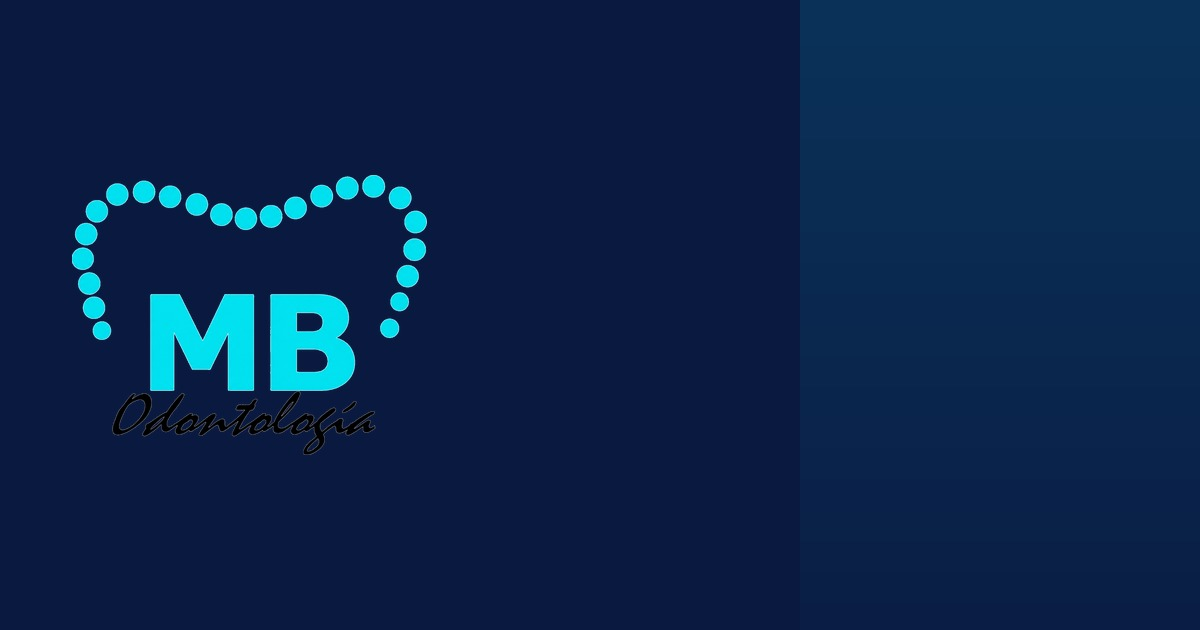
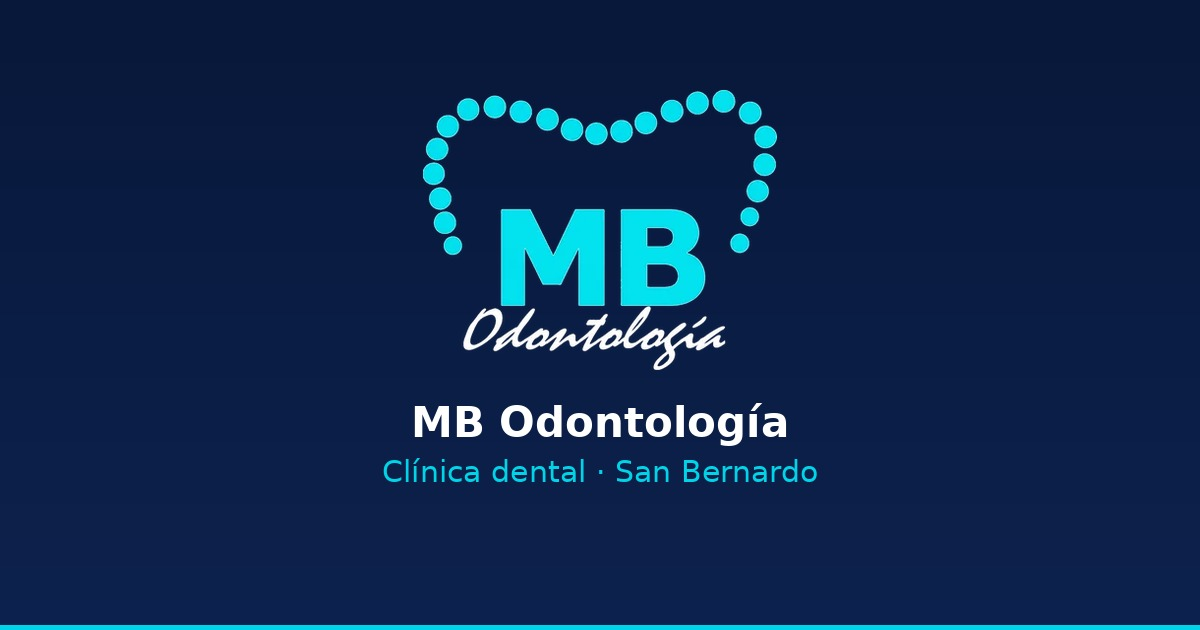
ajustes finales

Changed region(s): [[0.0617, 0.0, 1.0, 0.7238], [0.0, 0.9651, 1.0, 1.0], [0.3083, 0.6333, 0.6783, 0.7841]]

diff --git a/index.html b/index.html
@@ -28,10 +28,10 @@
 <header class="site-header">
   <div class="container nav">
     <a class="brand" href="index.html"><img src="assets/img/mb-logo.webp" alt="MB Odontología — Clínica dental"><span>Odontología</span></a>
-    <nav class="menu" aria-label="Menú principal"><a class="active" href="index.html">Inicio</a><a href="equipo.html">Nosotros</a><a href="servicios.html">Servicios</a><a href="agendar.html#contacto">Contacto</a><a class="nav-agendar" href="agendar.html">Agendar</a></nav>
+    <nav class="menu" aria-label="Menú principal"><a class="active" href="index.html">Inicio</a><a href="equipo.html">Nosotros</a><a href="servicios.html">Servicios</a><a href="agendar.html#contacto">Contacto</a><a class="nav-agendar" href="agendar.html#dentalsoft">Agendar</a></nav>
     <button class="mobile-toggle" aria-label="Abrir menú" aria-expanded="false"><span></span><span></span><span></span></button>
   </div>
-  <div class="container mobile-menu"><a href="index.html">Inicio</a><a href="equipo.html">Nosotros</a><a href="servicios.html">Servicios</a><a href="agendar.html#contacto">Contacto</a><a class="nav-agendar" href="agendar.html">Agendar</a></div>
+  <div class="container mobile-menu"><a href="index.html">Inicio</a><a href="equipo.html">Nosotros</a><a href="servicios.html">Servicios</a><a href="agendar.html#contacto">Contacto</a><a class="nav-agendar" href="agendar.html#dentalsoft">Agendar</a></div>
 </header>
 
 <main>
@@ -59,7 +59,7 @@
         <p class="lead hero-lead-constrained">Atención odontológica completa: implantes, ortodoncia, odontopediatría y más. Reserva tu hora hoy.</p>
         <div class="hero-actions">
           <a class="btn lg whatsapp" href="https://wa.me/[phone redacted]?text=Hola%2C%20quiero%20agendar%20una%20evaluaci%C3%B3n%20en%20MB%20Odontolog%C3%ADa." target="_blank" rel="noopener">Escríbenos por WhatsApp</a>
-          <a class="btn secondary lg" href="agendar.html">Agendar hora</a>
+          <a class="btn secondary lg" href="agendar.html#dentalsoft">Agendar hora</a>
         </div>
       </div>
     </div>
@@ -143,7 +143,7 @@
           </span>
           <strong>Conocer al equipo clínico →</strong>
         </a>
-        <a class="home-quick-card" href="agendar.html">
+        <a class="home-quick-card" href="agendar.html#dentalsoft">
           <span class="home-quick-title">
             <span class="home-quick-icon" aria-hidden="true">
               <svg viewBox="0 0 24 24" fill="none" stroke="currentColor" stroke-width="2.2" stroke-linecap="round" stroke-linejoin="round"><rect x="3" y="4" width="18" height="17" rx="3"></rect><line x1="16" y1="2" x2="16" y2="6"></line><line x1="8" y1="2" x2="8" y2="6"></line><line x1="3" y1="10" x2="21" y2="10"></line><path d="M8 14h.01M12 14h.01M16 14h.01M8 18h.01M12 18h.01"></path></svg>
@@ -200,7 +200,7 @@
           </dl>
 
           <div class="home-location-actions">
-            <a class="btn header-cta" href="agendar.html">Agendar hora</a>
+            <a class="btn header-cta" href="agendar.html#dentalsoft">Agendar hora</a>
             <a class="btn secondary" href="https://maps.app.goo.gl/84jRuTuHgjY4yyRq6" target="_blank" rel="noopener">Abrir en Google Maps</a>
           </div>
         </article>
@@ -229,7 +229,7 @@
       <p>Agenda tu evaluación hoy. Te atendemos en San Bernardo, con hora rápida.</p>
       <div class="final-cta-actions">
         <a class="btn lg whatsapp" href="https://wa.me/[phone redacted]?text=Hola%2C%20quiero%20agendar%20una%20evaluaci%C3%B3n%20en%20MB%20Odontolog%C3%ADa." target="_blank" rel="noopener">Escribir por WhatsApp</a>
-        <a class="btn secondary lg" href="agendar.html">Ir a agendamiento</a>
+        <a class="btn secondary lg" href="agendar.html#dentalsoft">Ir a agendamiento</a>
       </div>
     </div>
   </section>
@@ -253,7 +253,7 @@
           <a href="servicios.html">Servicios</a>
           <a href="campanas.html">Promociones</a>
           <a href="agendar.html#contacto">Contacto</a>
-          <a class="nav-agendar" href="agendar.html">Agendar hora</a>
+          <a class="nav-agendar" href="agendar.html#dentalsoft">Agendar hora</a>
         </div>
       </div>
 
@@ -265,7 +265,7 @@
 Lun y Vie: 9:00 –14:00 / 15:00 –21:00 
 Mar, Miér, Jue: 15:00 – 20:30 
 Sáb: 9:00 – 14:00</p>
-        <a class="btn footer-agendar" href="agendar.html">Agendar hora</a>
+        <a class="btn footer-agendar" href="agendar.html#dentalsoft">Agendar hora</a>
       </div>
 
       <div class="footer-col footer-social-col">

diff --git a/en-construccion.html b/en-construccion.html
@@ -27,10 +27,10 @@
 <header class="site-header">
   <div class="container nav">
     <a class="brand" href="index.html"><img src="assets/img/mb-logo.webp" alt="MB Odontología — Clínica dental" width="360" height="284"><span>Odontología</span></a>
-    <nav class="menu" aria-label="Menú principal"><a class="active" href="index.html">Inicio</a><a href="equipo.html">Nosotros</a><a href="servicios.html">Servicios</a><a href="agendar.html#contacto">Contacto</a><a class="nav-agendar" href="agendar.html">Agendar</a></nav>
+    <nav class="menu" aria-label="Menú principal"><a class="active" href="index.html">Inicio</a><a href="equipo.html">Nosotros</a><a href="servicios.html">Servicios</a><a href="agendar.html#contacto">Contacto</a><a class="nav-agendar" href="agendar.html#dentalsoft">Agendar</a></nav>
     <button class="mobile-toggle" aria-label="Abrir menú" aria-expanded="false"><span></span><span></span><span></span></button>
   </div>
-  <div class="container mobile-menu"><a href="index.html">Inicio</a><a href="equipo.html">Nosotros</a><a href="servicios.html">Servicios</a><a href="agendar.html#contacto">Contacto</a><a class="nav-agendar" href="agendar.html">Agendar</a></div>
+  <div class="container mobile-menu"><a href="index.html">Inicio</a><a href="equipo.html">Nosotros</a><a href="servicios.html">Servicios</a><a href="agendar.html#contacto">Contacto</a><a class="nav-agendar" href="agendar.html#dentalsoft">Agendar</a></div>
 </header>
 <main>
   <section class="page-hero">
@@ -41,7 +41,7 @@
       <p class="lead">Esta página aún no está disponible. Puedes volver al sitio principal, revisar nuestros servicios o contactarnos directamente para agendar una hora.</p>
       <div class="hero-actions" style="padding-top: 18px;">
         <a class="btn lg" href="index.html">Volver al sitio</a>
-        <a class="btn secondary lg" href="agendar.html">Agendar hora</a>
+        <a class="btn secondary lg" href="agendar.html#dentalsoft">Agendar hora</a>
         <a class="btn lg whatsapp" href="https://wa.me/[phone redacted]?text=Hola%2C%20vi%20una%20secci%C3%B3n%20en%20construcci%C3%B3n%20y%20quiero%20hacer%20una%20consulta%20en%20MB%20Odontolog%C3%ADa." target="_blank" rel="noopener">Escribir por WhatsApp</a>
       </div>
     </div>
@@ -114,7 +114,7 @@
           <p><strong>Contacto:</strong> [phone redacted]</p>
 
           <div class="home-location-actions">
-            <a class="btn header-cta" href="agendar.html">Agendar hora</a>
+            <a class="btn header-cta" href="agendar.html#dentalsoft">Agendar hora</a>
             <a class="btn secondary" href="https://maps.app.goo.gl/84jRuTuHgjY4yyRq6" target="_blank" rel="noopener">Abrir en Google Maps</a>
           </div>
         </article>
@@ -156,7 +156,7 @@
           <a href="servicios.html">Servicios</a>
           <a href="campanas.html">Promociones</a>
           <a href="agendar.html#contacto">Contacto</a>
-          <a class="nav-agendar" href="agendar.html">Agendar hora</a>
+          <a class="nav-agendar" href="agendar.html#dentalsoft">Agendar hora</a>
         </div>
       </div>
 
@@ -168,7 +168,7 @@
 Lun y Vie: 9:00 –14:00 / 15:00 –21:00 
 Mar, Miér, Jue: 15:00 – 20:30 
 Sáb: 9:00 – 14:00</p>
-        <a class="btn footer-agendar" href="agendar.html">Agendar hora</a>
+        <a class="btn footer-agendar" href="agendar.html#dentalsoft">Agendar hora</a>
       </div>
 
       <div class="footer-col footer-social-col">

diff --git a/equipo.html b/equipo.html
@@ -23,10 +23,10 @@
 <header class="site-header">
   <div class="container nav">
     <a class="brand" href="index.html"><img src="assets/img/mb-logo.webp" alt="MB Odontología — Clínica dental"><span>Odontología</span></a>
-    <nav class="menu" aria-label="Menú principal"><a href="index.html">Inicio</a><a class="active" href="equipo.html">Nosotros</a><a href="servicios.html">Servicios</a><a href="agendar.html#contacto">Contacto</a><a class="nav-agendar" href="agendar.html">Agendar</a></nav>
+    <nav class="menu" aria-label="Menú principal"><a href="index.html">Inicio</a><a class="active" href="equipo.html">Nosotros</a><a href="servicios.html">Servicios</a><a href="agendar.html#contacto">Contacto</a><a class="nav-agendar" href="agendar.html#dentalsoft">Agendar</a></nav>
     <button class="mobile-toggle" aria-label="Abrir menú" aria-expanded="false"><span></span><span></span><span></span></button>
   </div>
-  <div class="container mobile-menu"><a href="index.html">Inicio</a><a href="equipo.html">Nosotros</a><a href="servicios.html">Servicios</a><a href="agendar.html#contacto">Contacto</a><a class="nav-agendar" href="agendar.html">Agendar</a></div>
+  <div class="container mobile-menu"><a href="index.html">Inicio</a><a href="equipo.html">Nosotros</a><a href="servicios.html">Servicios</a><a href="agendar.html#contacto">Contacto</a><a class="nav-agendar" href="agendar.html#dentalsoft">Agendar</a></div>
 </header>
 <main>
   <section class="hero-equipo">
@@ -38,7 +38,7 @@
         <p class="lead">Nuestros especialistas te acompañarán con una atención personalizada, centrada en lo que tú necesites.</p>
         <div class="hero-actions hero-dark-actions">
           <a class="btn lg whatsapp" href="https://wa.me/[phone redacted]?text=Hola%2C%20quiero%20agendar%20una%20evaluaci%C3%B3n%20en%20MB%20Odontolog%C3%ADa." target="_blank" rel="noopener">Escríbenos por WhatsApp</a>
-          <a class="btn lg hero-cyan-btn" href="agendar.html">Agendar hora</a>
+          <a class="btn lg hero-cyan-btn" href="agendar.html#dentalsoft">Agendar hora</a>
         </div>
       </div>
     </div>
@@ -139,7 +139,7 @@
       <p>Escríbenos y te orientaremos hacia la solución más adecuada para ti.</p>
       <div class="final-cta-actions">
         <a class="btn lg whatsapp" href="https://wa.me/[phone redacted]?text=Hola%2C%20necesito%20orientaci%C3%B3n%20sobre%20qu%C3%A9%20profesional%20me%20corresponde." target="_blank" rel="noopener">Escríbenos por WhatsApp</a>
-        <a class="btn lg" href="agendar.html">Ir a agendamiento</a>
+        <a class="btn lg" href="agendar.html#dentalsoft">Ir a agendamiento</a>
       </div>
     </div>
   </section>
@@ -162,7 +162,7 @@
           <a href="servicios.html">Servicios</a>
           <a href="campanas.html">Promociones</a>
           <a href="agendar.html#contacto">Contacto</a>
-          <a class="nav-agendar" href="agendar.html">Agendar hora</a>
+          <a class="nav-agendar" href="agendar.html#dentalsoft">Agendar hora</a>
         </div>
       </div>
 
@@ -174,7 +174,7 @@
 Lun y Vie: 9:00 –14:00 / 15:00 –21:00 
 Mar, Miér, Jue: 15:00 – 20:30 
 Sáb: 9:00 – 14:00</p>
-        <a class="btn footer-agendar" href="agendar.html">Agendar hora</a>
+        <a class="btn footer-agendar" href="agendar.html#dentalsoft">Agendar hora</a>
       </div>
 
       <div class="footer-col footer-social-col">

diff --git a/servicios.html b/servicios.html
@@ -26,10 +26,10 @@
 <header class="site-header">
   <div class="container nav">
     <a class="brand" href="index.html"><img src="assets/img/mb-logo.webp" alt="MB Odontología — Clínica dental"><span>Odontología</span></a>
-    <nav class="menu" aria-label="Menú principal"><a href="index.html">Inicio</a><a href="equipo.html">Nosotros</a><a class="active" href="servicios.html">Servicios</a><a href="agendar.html#contacto">Contacto</a><a class="nav-agendar" href="agendar.html">Agendar</a></nav>
+    <nav class="menu" aria-label="Menú principal"><a href="index.html">Inicio</a><a href="equipo.html">Nosotros</a><a class="active" href="servicios.html">Servicios</a><a href="agendar.html#contacto">Contacto</a><a class="nav-agendar" href="agendar.html#dentalsoft">Agendar</a></nav>
     <button class="mobile-toggle" aria-label="Abrir menú" aria-expanded="false"><span></span><span></span><span></span></button>
   </div>
-  <div class="container mobile-menu"><a href="index.html">Inicio</a><a href="equipo.html">Nosotros</a><a href="servicios.html">Servicios</a><a href="agendar.html#contacto">Contacto</a><a class="nav-agendar" href="agendar.html">Agendar</a></div>
+  <div class="container mobile-menu"><a href="index.html">Inicio</a><a href="equipo.html">Nosotros</a><a href="servicios.html">Servicios</a><a href="agendar.html#contacto">Contacto</a><a class="nav-agendar" href="agendar.html#dentalsoft">Agendar</a></div>
 </header>
 <main>
   <section class="hero-tratamientos">
@@ -41,7 +41,7 @@
         <p class="lead">Te presentamos los servicios disponibles en MB Odontología. Incluye evaluación, diagnóstico, planificación y seguimiento al tratamiento.</p>
         <div class="hero-actions hero-dark-actions">
           <a class="btn lg whatsapp" href="https://wa.me/[phone redacted]?text=Hola%2C%20quiero%20agendar%20una%20evaluaci%C3%B3n%20en%20MB%20Odontolog%C3%ADa." target="_blank" rel="noopener">Escríbenos por WhatsApp</a>
-          <a class="btn lg hero-cyan-btn" href="agendar.html#contacto">Agendar hora</a>
+          <a class="btn lg hero-cyan-btn" href="agendar.html#dentalsoft">Agendar hora</a>
         </div>
       </div>
     </div>
@@ -139,7 +139,7 @@
       <p class="final-cta-schedule">Lunes y Viernes: 9:00 a 14:00 y 15:00 a 21:00 &nbsp;·&nbsp; Martes, Miércoles y Jueves: 15:00 a 20:30 &nbsp;·&nbsp; Sábado: 9:00 a 14:00</p>
       <div class="final-cta-actions">
         <a class="btn lg whatsapp" href="https://wa.me/[phone redacted]?text=Hola%2C%20quiero%20agendar%20una%20evaluaci%C3%B3n%20dental%20en%20MB%20Odontolog%C3%ADa." target="_blank" rel="noopener">Escríbenos por WhatsApp</a>
-        <a class="btn secondary lg" href="agendar.html">Agendar hora</a>
+        <a class="btn secondary lg" href="agendar.html#dentalsoft">Agendar hora</a>
       </div>
     </div>
   </section>
@@ -162,7 +162,7 @@
           <a href="servicios.html">Servicios</a>
           <a href="campanas.html">Promociones</a>
           <a href="agendar.html#contacto">Contacto</a>
-          <a class="nav-agendar" href="agendar.html">Agendar hora</a>
+          <a class="nav-agendar" href="agendar.html#dentalsoft">Agendar hora</a>
         </div>
       </div>
 
@@ -174,7 +174,7 @@
 Lun y Vie: 9:00 –14:00 / 15:00 –21:00 
 Mar, Miér, Jue: 15:00 – 20:30 
 Sáb: 9:00 – 14:00</p>
-        <a class="btn footer-agendar" href="agendar.html">Agendar hora</a>
+        <a class="btn footer-agendar" href="agendar.html#dentalsoft">Agendar hora</a>
       </div>
 
       <div class="footer-col footer-social-col">

diff --git a/agendar.html b/agendar.html
@@ -23,10 +23,10 @@
 <header class="site-header">
   <div class="container nav">
     <a class="brand" href="index.html"><img src="assets/img/mb-logo.webp" alt="MB Odontología — Clínica dental"><span>Odontología</span></a>
-    <nav class="menu" aria-label="Menú principal"><a href="index.html">Inicio</a><a href="equipo.html">Nosotros</a><a href="servicios.html">Servicios</a><a href="agendar.html#contacto">Contacto</a><a class="active nav-agendar" href="agendar.html">Agendar</a></nav>
+    <nav class="menu" aria-label="Menú principal"><a href="index.html">Inicio</a><a href="equipo.html">Nosotros</a><a href="servicios.html">Servicios</a><a href="agendar.html#contacto">Contacto</a><a class="active nav-agendar" href="agendar.html#dentalsoft">Agendar</a></nav>
     <button class="mobile-toggle" aria-label="Abrir menú" aria-expanded="false"><span></span><span></span><span></span></button>
   </div>
-  <div class="container mobile-menu"><a href="index.html">Inicio</a><a href="equipo.html">Nosotros</a><a href="servicios.html">Servicios</a><a href="agendar.html#contacto">Contacto</a><a class="nav-agendar" href="agendar.html">Agendar</a></div>
+  <div class="container mobile-menu"><a href="index.html">Inicio</a><a href="equipo.html">Nosotros</a><a href="servicios.html">Servicios</a><a href="agendar.html#contacto">Contacto</a><a class="nav-agendar" href="agendar.html#dentalsoft">Agendar</a></div>
 </header>
 <main>
   <section class="page-hero hero-agendar">
@@ -41,7 +41,7 @@
     </div>
   </section>
 
-  <section class="dentalsoft-section">
+  <section id="dentalsoft" class="dentalsoft-section">
     <div class="container">
       <div class="section-head center">
         <div class="kicker">Agendamiento online · Dental Soft</div>
@@ -184,7 +184,7 @@
           <a href="servicios.html">Servicios</a>
           <a href="campanas.html">Promociones</a>
           <a href="agendar.html#contacto">Contacto</a>
-          <a class="nav-agendar" href="agendar.html">Agendar hora</a>
+          <a class="nav-agendar" href="agendar.html#dentalsoft">Agendar hora</a>
         </div>
       </div>
 
@@ -196,7 +196,7 @@
 Lun y Vie: 9:00 –14:00 / 15:00 –21:00 
 Mar, Miér, Jue: 15:00 – 20:30 
 Sáb: 9:00 – 14:00</p>
-        <a class="btn footer-agendar" href="agendar.html">Agendar hora</a>
+        <a class="btn footer-agendar" href="agendar.html#dentalsoft">Agendar hora</a>
       </div>
 
       <div class="footer-col footer-social-col">

diff --git a/404.html b/404.html
@@ -27,10 +27,10 @@
 <header class="site-header">
   <div class="container nav">
     <a class="brand" href="index.html"><img src="assets/img/mb-logo.webp" alt="MB Odontología — Clínica dental" width="360" height="284"><span>Odontología</span></a>
-    <nav class="menu" aria-label="Menú principal"><a class="active" href="index.html">Inicio</a><a href="equipo.html">Nosotros</a><a href="servicios.html">Servicios</a><a href="agendar.html#contacto">Contacto</a><a class="nav-agendar" href="agendar.html">Agendar</a></nav>
+    <nav class="menu" aria-label="Menú principal"><a class="active" href="index.html">Inicio</a><a href="equipo.html">Nosotros</a><a href="servicios.html">Servicios</a><a href="agendar.html#contacto">Contacto</a><a class="nav-agendar" href="agendar.html#dentalsoft">Agendar</a></nav>
     <button class="mobile-toggle" aria-label="Abrir menú" aria-expanded="false"><span></span><span></span><span></span></button>
   </div>
-  <div class="container mobile-menu"><a href="index.html">Inicio</a><a href="equipo.html">Nosotros</a><a href="servicios.html">Servicios</a><a href="agendar.html#contacto">Contacto</a><a class="nav-agendar" href="agendar.html">Agendar</a></div>
+  <div class="container mobile-menu"><a href="index.html">Inicio</a><a href="equipo.html">Nosotros</a><a href="servicios.html">Servicios</a><a href="agendar.html#contacto">Contacto</a><a class="nav-agendar" href="agendar.html#dentalsoft">Agendar</a></div>
 </header>
 <main>
   <section class="page-hero">
@@ -65,7 +65,7 @@
           <a href="servicios.html">Servicios</a>
           <a href="campanas.html">Promociones</a>
           <a href="agendar.html#contacto">Contacto</a>
-          <a class="nav-agendar" href="agendar.html">Agendar hora</a>
+          <a class="nav-agendar" href="agendar.html#dentalsoft">Agendar hora</a>
         </div>
       </div>
 
@@ -77,7 +77,7 @@
 Lun y Vie: 9:00 –14:00 / 15:00 –21:00 
 Mar, Miér, Jue: 15:00 – 20:30 
 Sáb: 9:00 – 14:00</p>
-        <a class="btn footer-agendar" href="agendar.html">Agendar hora</a>
+        <a class="btn footer-agendar" href="agendar.html#dentalsoft">Agendar hora</a>
       </div>
 
       <div class="footer-col footer-social-col">

diff --git a/campanas.html b/campanas.html
@@ -26,10 +26,10 @@
 <header class="site-header">
   <div class="container nav">
     <a class="brand" href="index.html"><img src="assets/img/mb-logo.webp" alt="MB Odontología — Clínica dental"><span>Odontología</span></a>
-    <nav class="menu" aria-label="Menú principal"><a href="index.html">Inicio</a><a href="equipo.html">Nosotros</a><a href="servicios.html">Servicios</a><a href="agendar.html#contacto">Contacto</a><a class="nav-agendar" href="agendar.html">Agendar</a></nav>
+    <nav class="menu" aria-label="Menú principal"><a href="index.html">Inicio</a><a href="equipo.html">Nosotros</a><a href="servicios.html">Servicios</a><a href="agendar.html#contacto">Contacto</a><a class="nav-agendar" href="agendar.html#dentalsoft">Agendar</a></nav>
     <button class="mobile-toggle" aria-label="Abrir menú" aria-expanded="false"><span></span><span></span><span></span></button>
   </div>
-  <div class="container mobile-menu"><a href="index.html">Inicio</a><a href="equipo.html">Nosotros</a><a href="servicios.html">Servicios</a><a href="agendar.html#contacto">Contacto</a><a class="nav-agendar" href="agendar.html">Agendar</a></div>
+  <div class="container mobile-menu"><a href="index.html">Inicio</a><a href="equipo.html">Nosotros</a><a href="servicios.html">Servicios</a><a href="agendar.html#contacto">Contacto</a><a class="nav-agendar" href="agendar.html#dentalsoft">Agendar</a></div>
 </header>
 
 <main>
@@ -205,7 +205,7 @@
           <a href="servicios.html">Servicios</a>
           <a href="campanas.html">Promociones</a>
           <a href="agendar.html#contacto">Contacto</a>
-          <a class="nav-agendar" href="agendar.html">Agendar hora</a>
+          <a class="nav-agendar" href="agendar.html#dentalsoft">Agendar hora</a>
         </div>
       </div>
 
@@ -217,7 +217,7 @@
 Lun y Vie: 9:00 –14:00 / 15:00 –21:00 
 Mar, Miér, Jue: 15:00 – 20:30 
 Sáb: 9:00 – 14:00</p>
-        <a class="btn footer-agendar" href="agendar.html">Agendar hora</a>
+        <a class="btn footer-agendar" href="agendar.html#dentalsoft">Agendar hora</a>
       </div>
 
       <div class="footer-col footer-social-col">

diff --git a/privacidad.html b/privacidad.html
@@ -92,10 +92,10 @@
 <header class="site-header">
   <div class="container nav">
     <a class="brand" href="index.html"><img src="assets/img/mb-logo.webp" alt="MB Odontología — Clínica dental" width="360" height="284"><span>Odontología</span></a>
-    <nav class="menu" aria-label="Menú principal"><a href="index.html">Inicio</a><a href="equipo.html">Nosotros</a><a href="servicios.html">Servicios</a><a href="agendar.html#contacto">Contacto</a><a class="nav-agendar" href="agendar.html">Agendar</a></nav>
+    <nav class="menu" aria-label="Menú principal"><a href="index.html">Inicio</a><a href="equipo.html">Nosotros</a><a href="servicios.html">Servicios</a><a href="agendar.html#contacto">Contacto</a><a class="nav-agendar" href="agendar.html#dentalsoft">Agendar</a></nav>
     <button class="mobile-toggle" aria-label="Abrir menú" aria-expanded="false"><span></span><span></span><span></span></button>
   </div>
-  <div class="container mobile-menu"><a href="index.html">Inicio</a><a href="equipo.html">Nosotros</a><a href="servicios.html">Servicios</a><a href="agendar.html#contacto">Contacto</a><a class="nav-agendar" href="agendar.html">Agendar</a></div>
+  <div class="container mobile-menu"><a href="index.html">Inicio</a><a href="equipo.html">Nosotros</a><a href="servicios.html">Servicios</a><a href="agendar.html#contacto">Contacto</a><a class="nav-agendar" href="agendar.html#dentalsoft">Agendar</a></div>
 </header>
 
 <main>
@@ -227,7 +227,7 @@
           <a href="servicios.html">Servicios</a>
           <a href="campanas.html">Promociones</a>
           <a href="agendar.html#contacto">Contacto</a>
-          <a class="nav-agendar" href="agendar.html">Agendar hora</a>
+          <a class="nav-agendar" href="agendar.html#dentalsoft">Agendar hora</a>
         </div>
       </div>
 
@@ -239,7 +239,7 @@
 Lun y Vie: 9:00 –14:00 / 15:00 –21:00 
 Mar, Miér, Jue: 15:00 – 20:30 
 Sáb: 9:00 – 14:00</p>
-        <a class="btn footer-agendar" href="agendar.html">Agendar hora</a>
+        <a class="btn footer-agendar" href="agendar.html#dentalsoft">Agendar hora</a>
       </div>
 
       <div class="footer-col footer-social-col">

diff --git a/reserva-confirmada.html b/reserva-confirmada.html
@@ -15,10 +15,10 @@
 <header class="site-header">
   <div class="container nav">
     <a class="brand" href="index.html"><img src="assets/img/mb-logo.webp" alt="MB Odontología — Clínica dental"><span>Odontología</span></a>
-    <nav class="menu" aria-label="Menú principal"><a href="index.html">Inicio</a><a href="equipo.html">Nosotros</a><a href="servicios.html">Servicios</a><a href="agendar.html#contacto">Contacto</a><a class="nav-agendar" href="agendar.html">Agendar</a></nav>
+    <nav class="menu" aria-label="Menú principal"><a href="index.html">Inicio</a><a href="equipo.html">Nosotros</a><a href="servicios.html">Servicios</a><a href="agendar.html#contacto">Contacto</a><a class="nav-agendar" href="agendar.html#dentalsoft">Agendar</a></nav>
     <button class="mobile-toggle" aria-label="Abrir menú" aria-expanded="false"><span></span><span></span><span></span></button>
   </div>
-  <div class="container mobile-menu"><a href="index.html">Inicio</a><a href="equipo.html">Nosotros</a><a href="servicios.html">Servicios</a><a href="agendar.html#contacto">Contacto</a><a class="nav-agendar" href="agendar.html">Agendar</a></div>
+  <div class="container mobile-menu"><a href="index.html">Inicio</a><a href="equipo.html">Nosotros</a><a href="servicios.html">Servicios</a><a href="agendar.html#contacto">Contacto</a><a class="nav-agendar" href="agendar.html#dentalsoft">Agendar</a></div>
 </header>
 <main>
   <section class="confirm-section">
@@ -66,7 +66,7 @@
           <a href="servicios.html">Servicios</a>
           <a href="campanas.html">Promociones</a>
           <a href="agendar.html#contacto">Contacto</a>
-          <a class="nav-agendar" href="agendar.html">Agendar hora</a>
+          <a class="nav-agendar" href="agendar.html#dentalsoft">Agendar hora</a>
         </div>
       </div>
       <div class="footer-col footer-contact-col">
@@ -77,7 +77,7 @@
 Lun y Vie: 9:00 –14:00 / 15:00 –21:00
 Mar, Miér, Jue: 15:00 – 20:30
 Sáb: 9:00 – 14:00</p>
-        <a class="btn footer-agendar" href="agendar.html">Agendar hora</a>
+        <a class="btn footer-agendar" href="agendar.html#dentalsoft">Agendar hora</a>
       </div>
       <div class="footer-col footer-social-col">
         <h3>Redes sociales</h3>